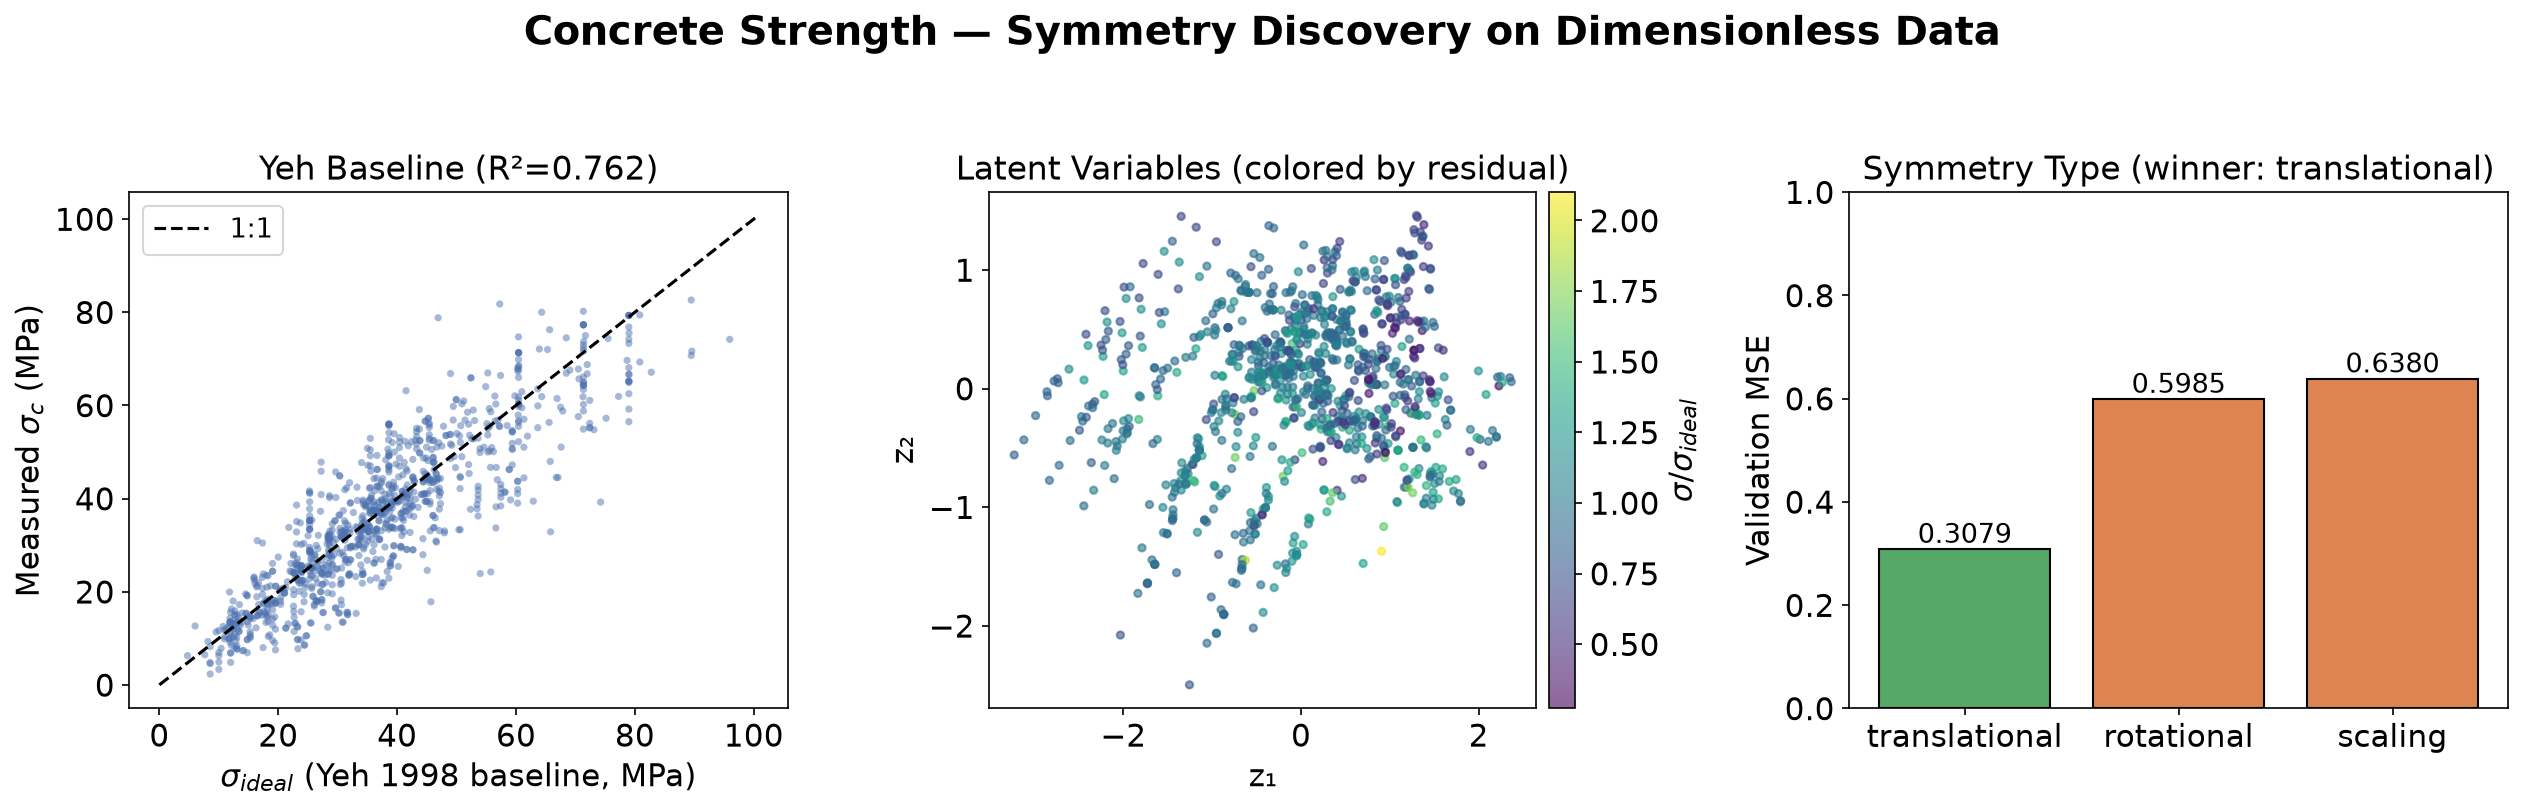
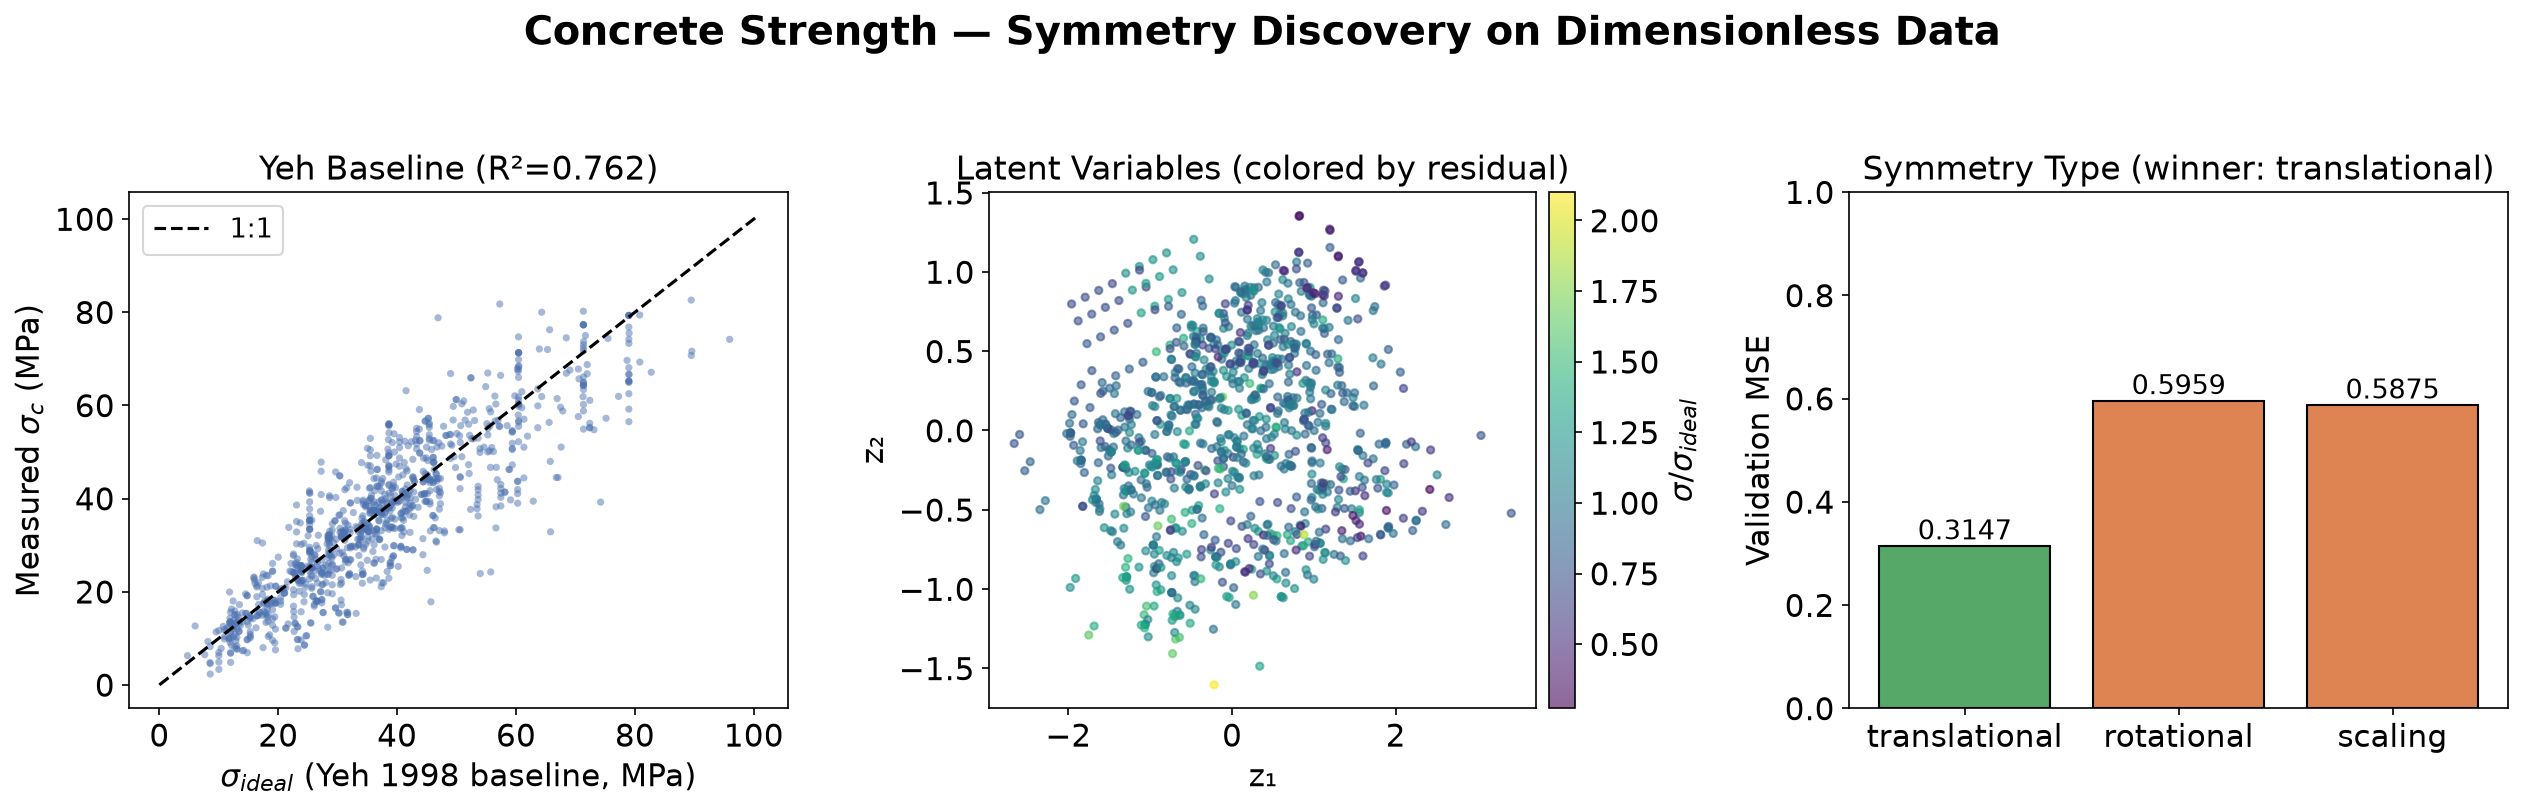
Extend latent-dimension search to k=6 via --max-latent flag
Held-out R2 peaks at k=4 (0.556) and degrades at k=5 (0.526) and k=6
(0.464), confirming k=4 as an interior optimum rather than a search-cap
artifact. Translational symmetry unchanged (1.9x gap, 3 generators);
README updated with the extended table and refreshed generator basis.

Claude-Session: https://claude.ai/code/session_01JgTSZX7aK21xpgXF2kjpws

diff --git a/projects/20260912_Stage1_Prokash/Examples/concrete_strength/discover_symmetry_dimensionless.py b/projects/20260912_Stage1_Prokash/Examples/concrete_strength/discover_symmetry_dimensionless.py
@@ -165,7 +165,7 @@ def run_pipeline(Pi, y, args):
     print(f"  Multi-layer encoder hidden dims: {args.encoder_hidden}")
 
     res_latent = discover_latent_dimension(
-        X_norm, y_norm, max_latent=4,
+        X_norm, y_norm, max_latent=args.max_latent,
         n_epochs=args.latent_epochs, n_restarts=args.n_restarts, seed=args.seed,
         **enc_kwargs)
     results["latent"] = res_latent
@@ -306,6 +306,9 @@ def main():
     parser.add_argument("--latent-epochs", type=int, default=600)
     parser.add_argument("--sym-epochs", type=int, default=1500)
     parser.add_argument("--n-restarts", type=int, default=3)
+    parser.add_argument("--max-latent", type=int, default=6,
+                        help="Largest latent dimension to test (must be < 7 "
+                             "so that translational generators remain)")
     parser.add_argument("--output-dir", default="output_concrete_dimensionless")
     parser.add_argument("--encoder-hidden", type=int, nargs="+", default=[64, 32])
     args = parser.parse_args()

diff --git a/projects/20260912_Stage1_Prokash/Examples/concrete_strength/README.md b/projects/20260912_Stage1_Prokash/Examples/concrete_strength/README.md
@@ -13,9 +13,10 @@ published in the source paper (Yeh, 1998, Table&nbsp;6). The frozen baseline
 alone explains R²&nbsp;=&nbsp;0.762 of the strength variance; the pipeline
 then models the residual with a multilayer-perceptron autoencoder (hidden
 widths `[64, 32]`, `raw_input=True`). The intrinsic latent dimension is
-identified as `k = 4`, and competitive encoder training selects the
+identified as `k = 4` (an interior optimum of a search over
+`k ∈ {1, …, 6}`), and competitive encoder training selects the
 **translational** symmetry candidate with a **1.9×** validation-MSE gap over
-the next-best (rotational) candidate. Three independent Lie-algebra
+the next-best (scaling) candidate. Three independent Lie-algebra
 generators are extracted, each a physically interpretable
 strength-preserving substitution in mix-ratio space.
 
@@ -113,7 +114,9 @@ The pipeline implements six sequential stages:
 2. **Normalization.** Standard scaling (zero mean, unit variance) of the
    seven dimensionless features and of the residual target.
 3. **Intrinsic-dimension discovery.** A latent-bottleneck autoencoder is
-   trained for `k ∈ {1, 2, 3, 4}`. The encoder is a multilayer perceptron
+   trained for `k ∈ {1, …, 6}` (with seven features, `k` must stay below
+   7 for translational generators to remain). The encoder is a
+   multilayer perceptron
    with hidden widths `[64, 32]` and `Tanh` activations operating on the
    raw standardised features (`raw_input=True`, no `[X, X², log|X|]`
    augmentation); the decoder is a paired MLP of matching capacity. Each
@@ -142,7 +145,9 @@ captured in `output_concrete_dimensionless/run.log`.
 
 ### 5.1 Latent dimension
 
-The intrinsic latent dimension of the residual is `k = 4`:
+The intrinsic latent dimension of the residual is `k = 4` — an interior
+optimum: held-out performance improves monotonically up to `k = 4` and
+degrades for both `k = 5` and `k = 6`:
 
 | `k` | `R²_train` | `R²_test` | MSE |
 |---|---|---|---|
@@ -150,10 +155,13 @@ The intrinsic latent dimension of the residual is `k = 4`:
 | 2 | 0.747 | 0.505 | 0.4493 |
 | 3 | 0.738 | 0.545 | 0.4134 |
 | 4 | 0.749 | **0.556** | **0.4032** |
+| 5 | 0.765 | 0.526 | 0.4307 |
+| 6 | 0.751 | 0.464 | 0.4863 |
 
 The R² values refer to the *residual* `σ_c/σ_ideal`, i.e. to the variance
 left over after the analytic baseline has removed the dominant w/b and
-age effects.
+age effects. The widening train–test gap beyond `k = 4` indicates the
+extra latent directions fit noise rather than structure.
 
 ### 5.2 Symmetry type
 
@@ -161,11 +169,11 @@ Competitive training selects the translational candidate:
 
 | Symmetry candidate | Held-out MSE |
 |---|---|
-| **translational** | **0.3079** |
-| rotational | 0.5985 |
-| scaling | 0.6380 |
+| **translational** | **0.3147** |
+| scaling | 0.5875 |
+| rotational | 0.5959 |
 
-The translational candidate beats the second-best (rotational) candidate
+The translational candidate beats the second-best (scaling) candidate
 by a factor of **1.9×** in validation MSE: the strength residual is
 additive in the binder-referenced mix ratios.
 
@@ -177,9 +185,9 @@ are `n − k = 3` independent translational generators (components with
 
 | Generator | Dominant components | Physical reading |
 |---|---|---|
-| `g₁` | Slag/b (+0.62), SP/b (+0.49), CoarseAgg/b (+0.42), FlyAsh/b (−0.29), ln(t/28) (+0.25), FineAgg/b (−0.22) | Replace fly ash and fine aggregate with slag, superplasticizer, and coarse aggregate at longer curing |
-| `g₂` | FineAgg/b (+0.75), SP/b (+0.61), CoarseAgg/b (−0.24) | Exchange coarse for fine aggregate with added superplasticizer |
-| `g₃` | w/b (−0.56), FlyAsh/b (+0.44), Slag/b (−0.47), SP/b (+0.30), CoarseAgg/b (+0.33), ln(t/28) (+0.25) | Trade lower w/b and slag against fly ash, superplasticizer, and curing age |
+| `g₁` | CoarseAgg/b (+0.49), w/b (−0.49), ln(t/28) (+0.42), SP/b (+0.35), Slag/b (−0.28), FineAgg/b (−0.27), FlyAsh/b (+0.27) | Reduce w/b and slag while adding coarse aggregate, superplasticizer, fly ash, and curing time |
+| `g₂` | FineAgg/b (+0.78), SP/b (+0.50), Slag/b (−0.29), FlyAsh/b (+0.17), CoarseAgg/b (−0.16) | Exchange coarse aggregate and slag for fine aggregate with added superplasticizer |
+| `g₃` | Slag/b (+0.62), SP/b (+0.58), FlyAsh/b (−0.39), CoarseAgg/b (+0.28), w/b (+0.21), ln(t/28) (+0.11) | Replace fly ash with slag and superplasticizer, tolerating slightly higher w/b |
 
 Each generator is a constant-residual direction in mix-ratio space:
 moving the composition along `g_i` (within physical limits) leaves the
@@ -239,9 +247,9 @@ coordinates confirms that the residual strength surface is governed by
 additive combinations of the mix ratios. The three generators provide an
 interpretable, data-driven catalogue of strength-preserving mix
 substitutions — e.g. supplementary-cementitious-material exchange
-(`g₃`: fly ash for slag at reduced w/b) or aggregate grading shifts
-compensated by superplasticizer (`g₂`) — that can guide constrained
-mix-design optimisation at a fixed target strength.
+(`g₃`: slag and superplasticizer for fly ash) or aggregate grading
+shifts compensated by superplasticizer (`g₂`) — that can guide
+constrained mix-design optimisation at a fixed target strength.
 
 ## 8. References
 
